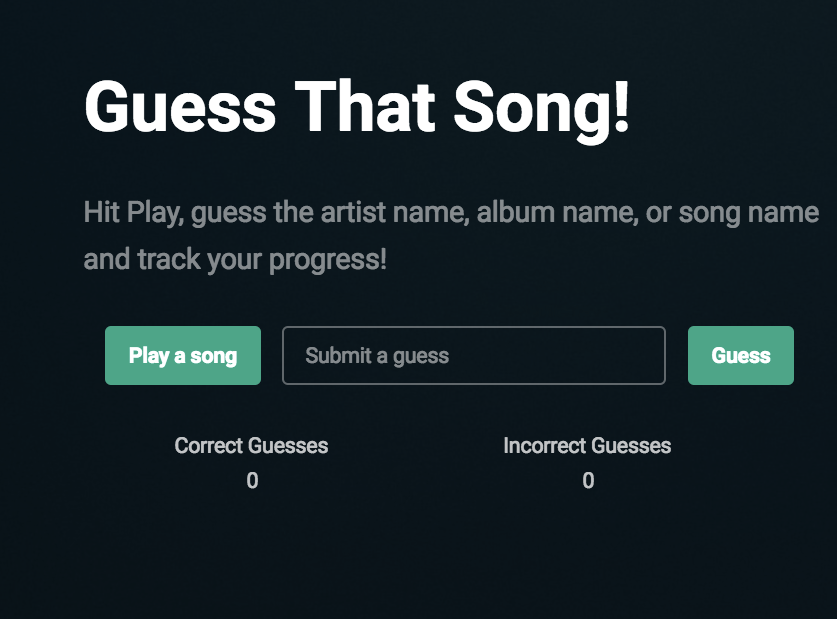
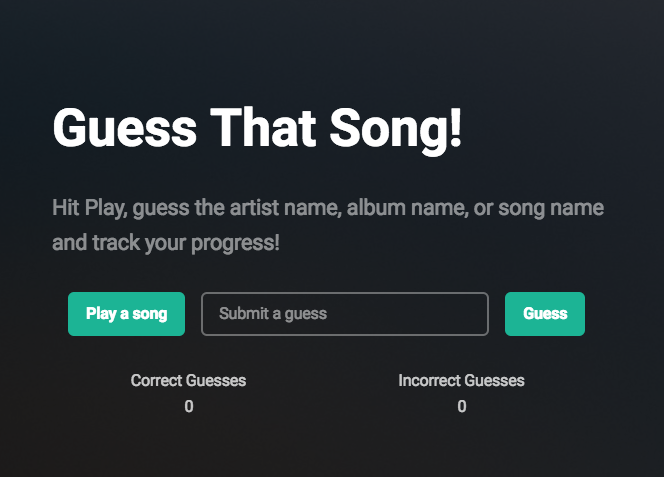
Updates font classes for title and desccription on project pages

diff --git a/app/public/styles/styles.css b/app/public/styles/styles.css
@@ -116,6 +116,10 @@ nav {
   font-weight: 600;
 }
 
+.name:hover {
+  color: #DCDCDC;
+}
+
 .title {
   display: flex;
   justify-content: center;
@@ -127,6 +131,10 @@ nav {
   font-size: 30px;
   font-family: 'Open Sans', sans-serif;
   font-weight: 200;
+}
+
+.title:hover {
+  color: #DCDCDC;
 }
 
 @media (max-width: 355px) {
@@ -147,7 +155,7 @@ h1 {
   font-family: 'Open Sans', sans-serif;
   font-size: 50px;
   font-weight: 600;
-  margin-top: 3vh;
+  margin-top: 5vh;
   margin-bottom: 0;
 }
 
@@ -160,7 +168,7 @@ main {
   flex-flow: row wrap;
   margin-left: 20vw;
   margin-right: 20vw;
-  margin-bottom: 5vh;
+  margin-bottom: 19vh;
 }
 
 

diff --git a/app/public/react-simon/reactsimon.template.html b/app/public/react-simon/reactsimon.template.html
@@ -5,7 +5,7 @@
   <a target="_blank" href="https://github.com/JonDRamer/Simon-React-Native"><img class="featuredProject" src="../assets/reactsimon.png" alt="Screenshot from simon memory game"></a>
   <p class="name">Introducing</p>
   <p class="name">React Native Simon</p>
-  <p class="name">A Mobile Version of Retro Simon for IOS and Android</p>
+  <p class="title">A Mobile Version of Retro Simon for IOS and Android</p>
 </section>
 
 <h1 id="portfolioSection">Description</h1>

diff --git a/app/public/home/home.template.html b/app/public/home/home.template.html
@@ -4,7 +4,7 @@
     <p class="navText" ng-click="$ctrl.jumpToAbout()">About</p>
     <p class="navText">Contact</p>
   </nav>
-  <img class="headshot" src="../assets/Jon.JPG" alt="Photo of Jon Ramer">
+  <a target="_blank" href="https://www.linkedin.com/in/jramer/"><img class="headshot" src="../assets/Jon.JPG" alt="Photo of Jon Ramer"></a>
   <p class="name">Jon Ramer</p>
   <p class="title" media="(max-width: 355px)">Full-Stack Web Developer</p>
 </section>

diff --git a/app/public/reddit/reddit.template.html b/app/public/reddit/reddit.template.html
@@ -5,7 +5,7 @@
   <a target="_blank" href="https://github.com/JonDRamer/Full-Stack-Reddit-Clone"><img class="featuredProject" src="../assets/reddit.png" alt="Screenshot from simon memory game"></a>
   <p class="name">Introducing</p>
   <p class="name">Reddit Clone</p>
-  <p class="name">An Angular Implementation of Reddit</p>
+  <p class="title">An Angular Implementation of Reddit</p>
 </section>
 
 <h1 id="portfolioSection">Description</h1>

diff --git a/app/public/simon/simon.template.html b/app/public/simon/simon.template.html
@@ -5,7 +5,7 @@
   <a target="_blank"href="http://retrosimon.surge.sh/"><img class="featuredProject" src="../assets/RetroSimon.png" alt="Screenshot from simon memory game"></a>
   <p class="name">Introducing</p>
   <p class="name">Retro Simon</p>
-  <p class="name">A Front End Javascript Game</p>
+  <p class="title">A Front End Javascript Game</p>
 </section>
 
 <h1 id="portfolioSection">Description</h1>

diff --git a/app/public/bwwmc/bwwmc.template.html b/app/public/bwwmc/bwwmc.template.html
@@ -5,7 +5,7 @@
   <a target="_blank" href="https://jramer87-bwwmc.herokuapp.com/"><img class="featuredProject" src="../assets/bwwmc.png" alt="Screenshot from simon memory game"></a>
   <p class="name">Introducing</p>
   <p class="name">Bow Wow Where's My Chow?</p>
-  <p class="name">A Dog Food Delivery App</p>
+  <p class="title">A Dog Food Delivery App</p>
 </section>
 
 

diff --git a/app/public/itunes-project/itunes.template.html b/app/public/itunes-project/itunes.template.html
@@ -5,7 +5,7 @@
   <a target="_blank" href="http://guessthatsong.surge.sh/"><img class="featuredProject" src="../assets/itunes.png" alt="Screenshot from itunes song guessing game"></a>
   <p class="name">Introducing</p>
   <p class="name">Guess That Song</p>
-  <p class="name">My First Web App</p>
+  <p class="title">My First Web App</p>
 </section>
 
 

diff --git a/app/public/home/home.component.js b/app/public/home/home.component.js
@@ -28,8 +28,7 @@
       //     }, 800);
       let portfolio = $('#portfolioSection')
         .offset()
-        .top - 120;
-      console.log(portfolio);
+        .top;
       $('body')
         .animate({
           scrollTop: portfolio
